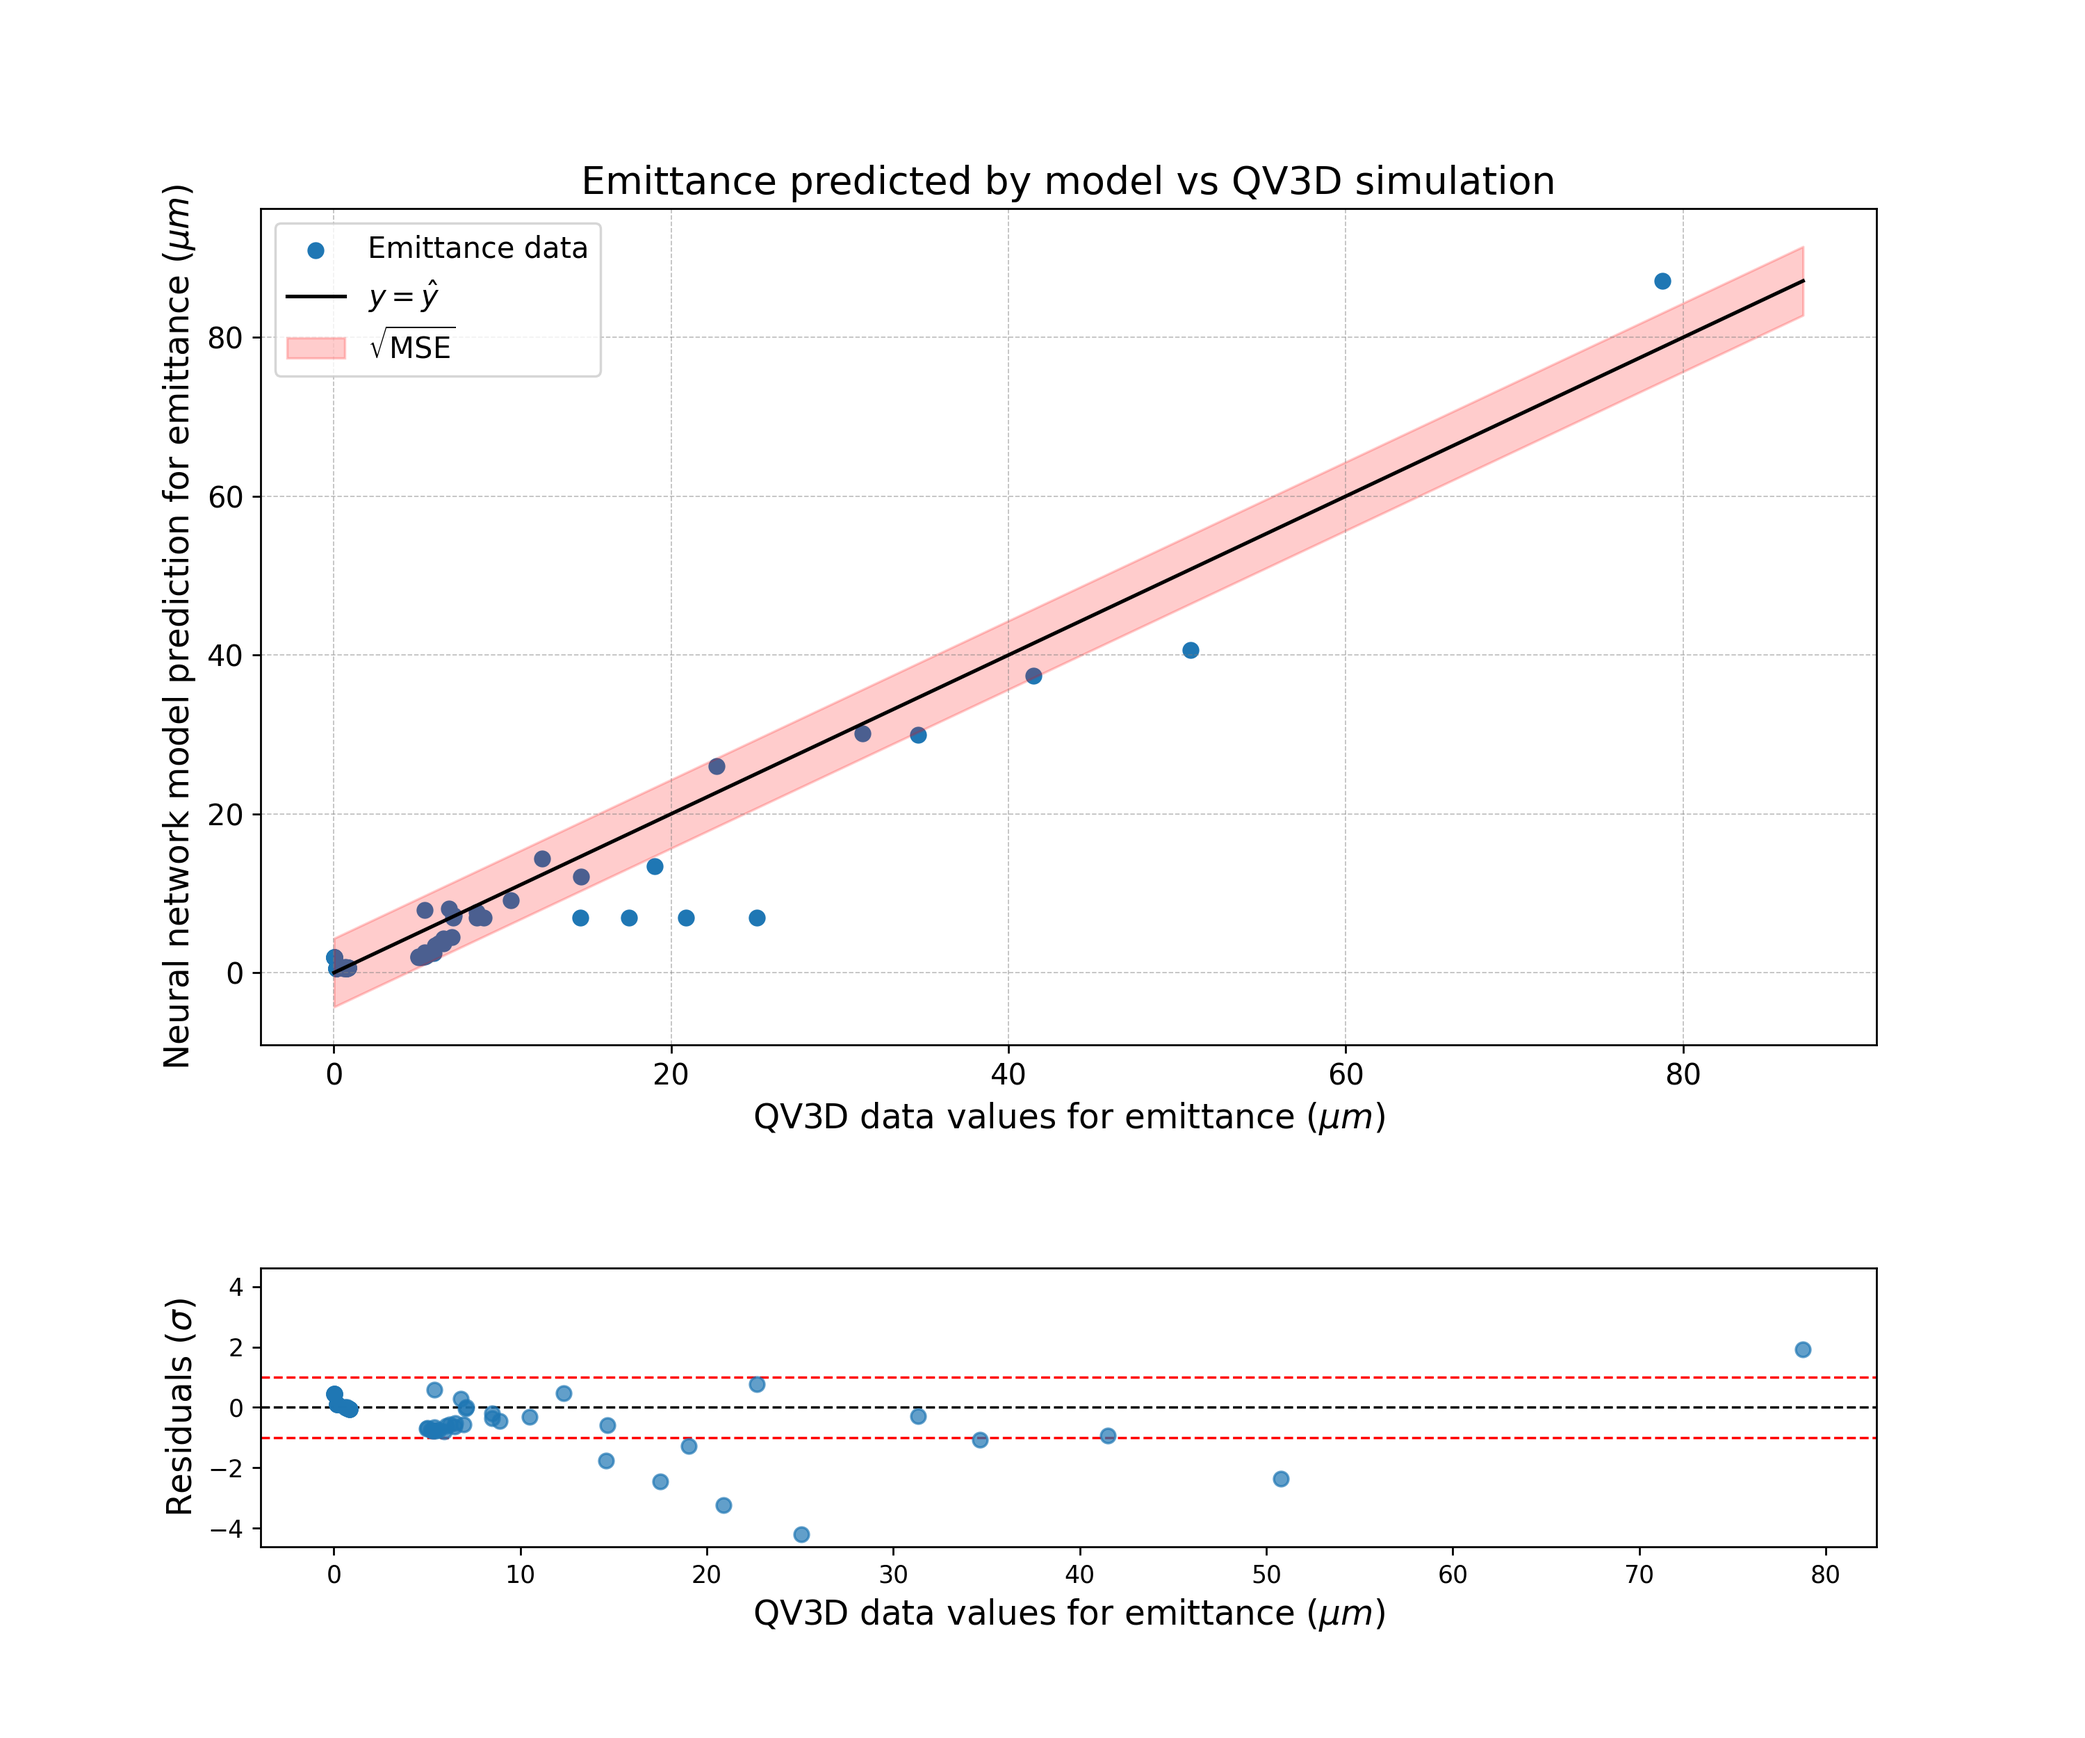
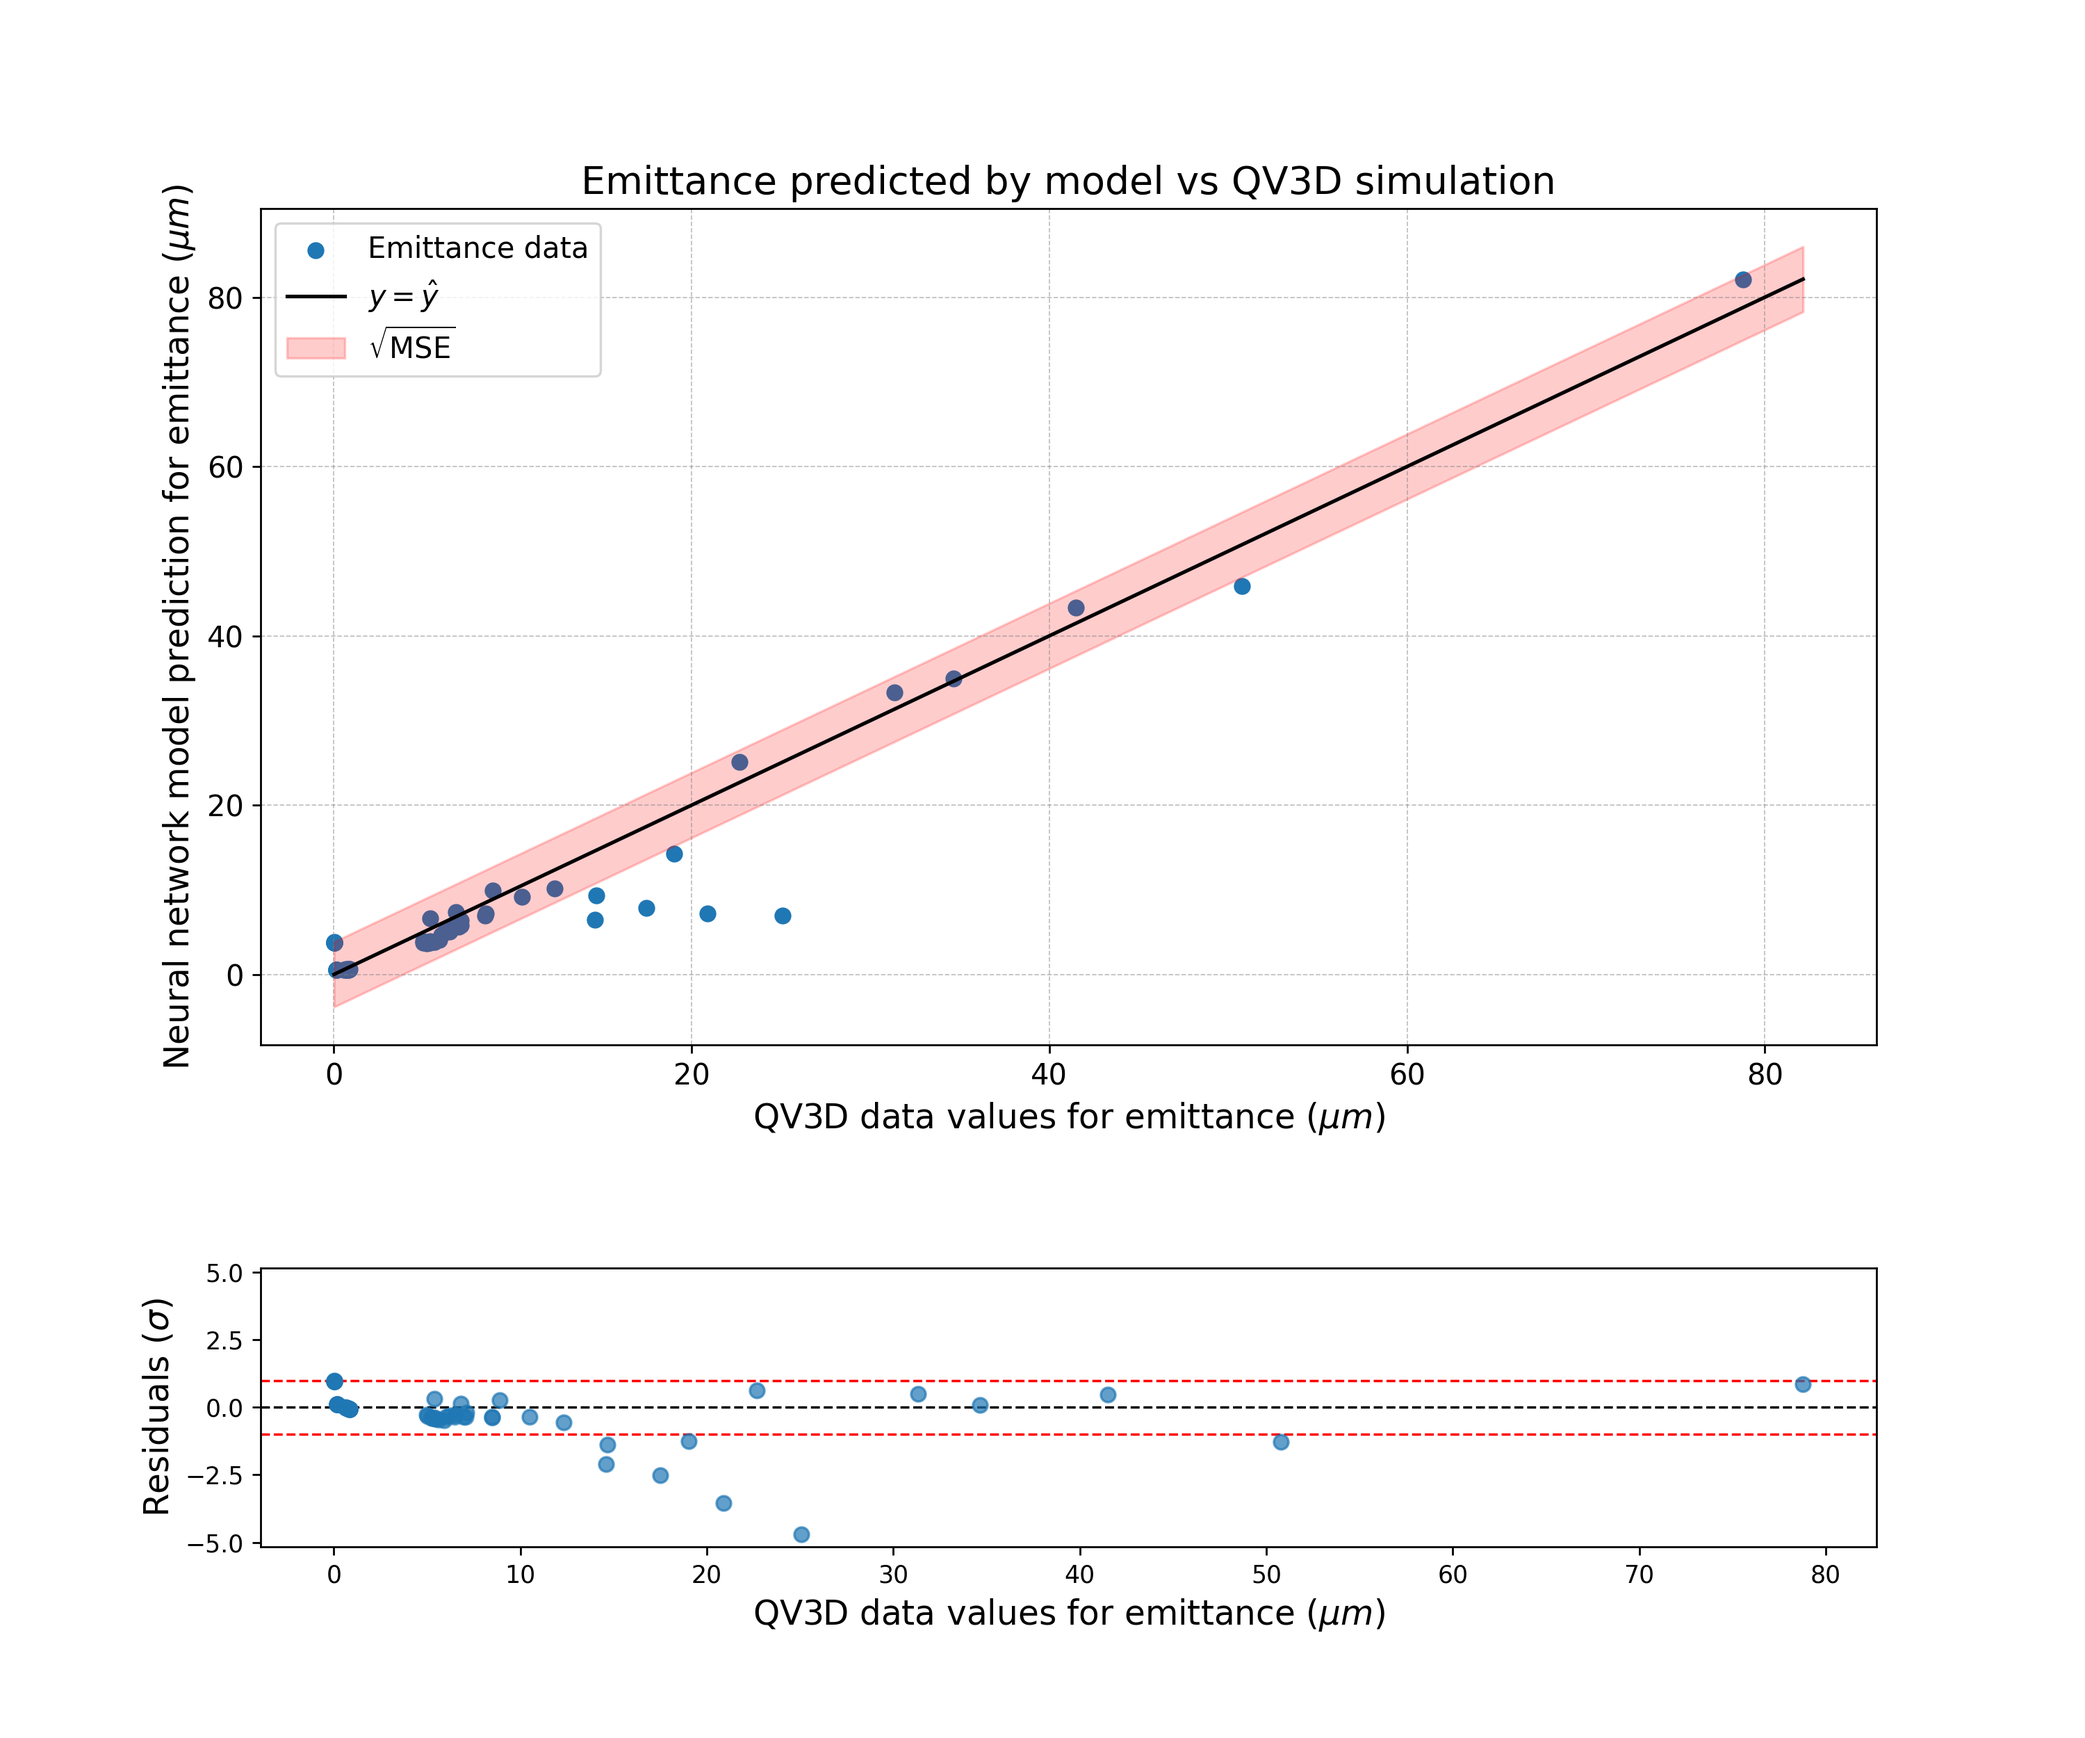
fixed calculation for train set loss

diff --git a/Machine Learning/neural_network_2.0.py b/Machine Learning/neural_network_2.0.py
@@ -219,6 +219,7 @@ avg_epoch_time = np.mean(epoch_times)
 print(f"Average time per epoch: {avg_epoch_time:.2f} sec")
 print(f"Total training time: {total_training_time:.2f} sec")
 
+
 # After training is done, plot the results
 plt.figure(figsize=(10, 6))
 plt.plot(epoch_array, loss_array, label='Training Loss', color='tab:blue', marker='o')
@@ -290,9 +291,39 @@ loss_error=np.std(loss_array)
 print(f"Test Set Loss: {average_loss:.4f}")
 mse=average_loss
 
-if average_loss>best_loss:
+# Initialize variables to keep track of the total loss and number of samples
+total_loss_train = 0.0
+num_samples_train = 0
+loss_array_train=np.empty(0)
+
+# No need to calculate gradients during evaluation, so we use torch.no_grad()
+with torch.no_grad():
+    for batch_features, batch_targets in train_dataloader:
+        # Move the data to the appropriate device (CPU or GPU)
+        batch_features, batch_targets = batch_features.to(device), batch_targets.to(device)
+        
+        # Make predictions
+        predictions = model(batch_features)
+        
+        # Calculate the loss (using the same loss function as in training)
+        loss = loss_fn(predictions, batch_targets)
+        #print(f"Test Loss: {loss.item():.4f}")
+        loss_array_train=np.append(loss_array,loss.item())
+        
+        # Accumulate the loss and number of samples
+        total_loss_train += loss.item() * batch_features.size(0)  # Multiply by batch size
+        num_samples_train += batch_features.size(0)
+
+        
+# Calculate average loss
+average_loss_train = total_loss_train / num_samples_train
+loss_error=np.std(loss_array_train)
+print(f"Train Set Loss: {average_loss_train:.4f}")
+mse=average_loss
+
+if average_loss>average_loss_train:
     overfitting='Overfitting'
-elif average_loss<best_loss:
+elif average_loss<average_loss_train:
     overfitting='Underfitting'
 else:
     overfitting='Just right'
@@ -313,7 +344,7 @@ metrics = {
     'batch_size': batch_no,
     'no_nodes': no_nodes,
     'predicted_feature': predicted_feature,  
-    'training_loss': best_loss,
+    'training_loss': average_loss_train,
     'overfitting':overfitting 
 }
 
@@ -417,8 +448,8 @@ ax2.set_ylabel(r"Residuals ($\sigma$)", fontsize=14)
 ax2.set_xlabel(r"QV3D data values for emittance ($\mu m$)", fontsize=14)
 ax2.set_ylim(-np.max(np.abs(1.1*residuals/np.sqrt(mse))), np.max((np.abs(1.1*residuals/np.sqrt(mse)))))
 
-plt.savefig(r'Machine Learning\Plots\NN_plot_ReLU_3_targets',dpi=250)
-plt.show()
+#plt.savefig(r'Machine Learning\Plots\NN_plot_ReLU_3_targets',dpi=250)
+#plt.show()
 
 
 grad_norms = [p.grad.norm().item() for p in model.parameters()]
